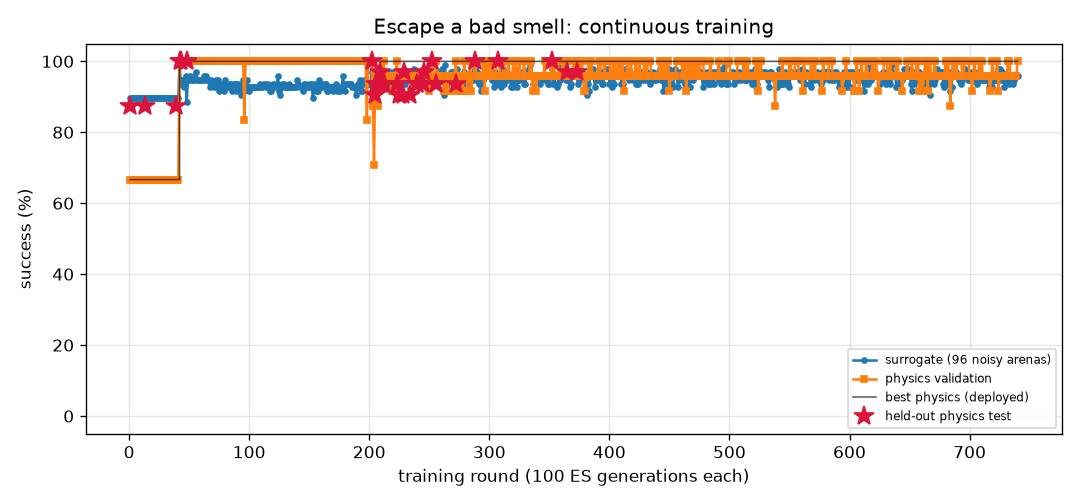
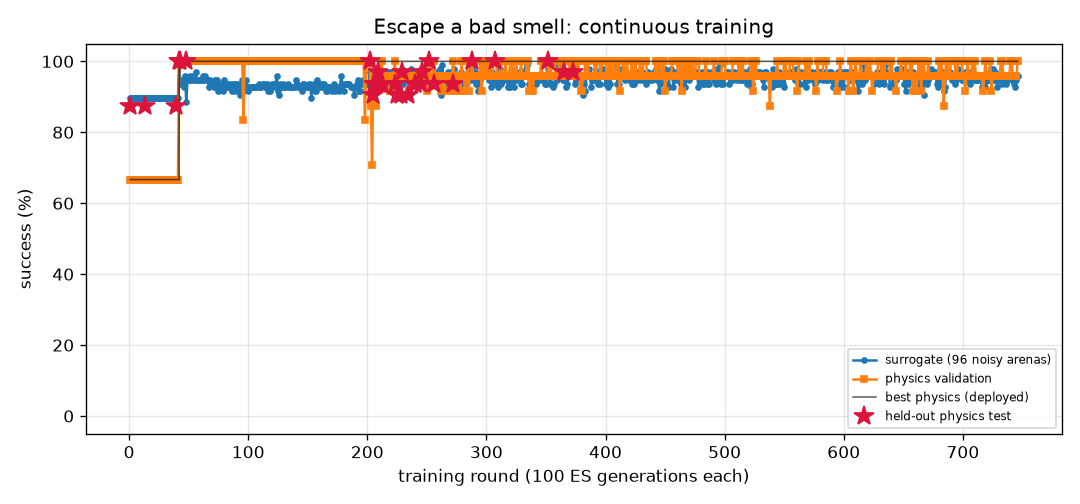
FlyLab: continuous training progress
- walk_forward: optimal, physics val 100% of 24, round 264
- turn: optimal, physics val 100% of 24, round 816
- goto: optimal, physics val 100% of 24, round 218
- odor_seek: optimal, physics val 100% of 24, round 185
- odor_avoid: optimal, physics val 100% of 24, round 746
- light_seek: optimal, physics val 100% of 24, round 412
- light_avoid: optimal, physics val 100% of 24, round 474

diff --git a/projects/09_flylab/training/turn/REPORT.md b/projects/09_flylab/training/turn/REPORT.md
@@ -1,14 +1,14 @@
 # Turn in place (`turn`) — training report
 
-*Auto-generated by `train_brains.py`, last updated 2026-11-02T19:20:21.*
+*Auto-generated by `train_brains.py`, last updated 2026-11-03T00:13:18.*
 
 ![curve](curve.png)
 
 | | |
 |---|---|
-| rounds | 808 |
-| ES generations | 80800 |
-| physics runs | 19638 |
+| rounds | 816 |
+| ES generations | 81600 |
+| physics runs | 19830 |
 | status | **optimal** |
 | best brain | round 80: physics validation **100%** on 24 arenas, surrogate 100% |
 | held-out physics test | **97%** on 32 unseen arenas (95% CI 84%-99%) (errors: [1.6, 3.3, 6.3, 3.7, 1.1, 0.4, 2.4, 2.9, 0.1, 2.6, 0.5, 2.7, 1.5, 3.1, 4.5, 0.2, 0.5, 1.1, 2.0, 4.4, 2.8, 3.2, 0.3, 2.2, 0.5, 3.0, 0.3, 5.4, 0.4, 1.0, 4.7, 10.7]) |
@@ -17,14 +17,6 @@ Physics error per arena: deg from target heading (< 20 = success).
 
 | round | level | gens | sigma | surrogate | physics val | val errors | test | note |
 |---:|---:|---:|---:|---:|---:|---|---:|---|
-| 769 | 3 | 76900 | 0.024 | 100% | 75% | [6.7, 7.9, 1.4, 1.8, 1.3, 2.3, 4.2, 3.4, 3.4, 0.5, 3.9, 0.8, 3.9, 2.6, 3.8, 0.5, 0.8, 1.2, 0.8, 0.9, 2.9, 1.2, 3.5, 1.5] |  |  |
-| 770 | 3 | 77000 | 0.024 | 97% | 79% | [5.8, 3.0, 5.5, 0.4, 8.1, 1.2, 6.3, 8.2, 5.9, 0.2, 5.8, 0.1, 1.9, 0.3, 5.2, 2.1, 0.2, 1.3, 1.7, 1.5, 7.8, 0.0, 6.8, 6.0] |  |  |
-| 771 | 3 | 77100 | 0.026 | 99% | 71% | [0.6, 6.1, 2.3, 2.8, 3.4, 0.5, 5.6, 0.5, 4.7, 1.1, 5.2, 0.5, 0.4, 0.8, 6.2, 1.2, 0.9, 2.5, 1.1, 1.0, 5.4, 2.6, 5.9, 4.5] |  |  |
-| 772 | 3 | 77200 | 0.025 | 99% | 75% | [3.4, 3.6, 1.8, 1.8, 2.4, 2.9, 4.0, 7.5, 4.3, 1.1, 5.7, 0.7, 1.2, 1.8, 5.0, 0.1, 0.7, 1.6, 0.4, 0.5, 1.5, 0.9, 5.0, 4.3] |  | restart from best |
-| 773 | 3 | 77300 | 0.024 | 100% | 79% | [6.4, 8.5, 0.1, 2.9, 4.0, 2.3, 4.5, 0.9, 0.7, 0.0, 4.2, 0.6, 0.9, 2.9, 2.9, 1.5, 0.3, 0.7, 1.9, 0.5, 3.8, 0.2, 4.5, 3.9] |  |  |
-| 774 | 3 | 77400 | 0.024 | 99% | 92% | [6.4, 8.8, 4.5, 5.8, 5.1, 0.2, 3.5, 0.8, 2.1, 2.5, 2.7, 2.5, 2.9, 2.7, 1.7, 2.2, 2.3, 1.9, 1.8, 2.8, 4.5, 1.9, 0.8, 6.0] |  |  |
-| 775 | 3 | 77500 | 0.025 | 100% | 75% | [8.4, 9.6, 5.7, 0.9, 6.0, 2.5, 4.5, 3.0, 4.0, 1.1, 5.4, 2.1, 0.5, 5.5, 5.3, 0.6, 1.8, 1.9, 0.7, 1.1, 5.2, 0.6, 5.5, 0.2] |  |  |
-| 776 | 3 | 77600 | 0.024 | 99% | 54% | [7.5, 5.3, 1.3, 3.3, 6.1, 4.6, 6.2, 2.4, 5.4, 0.5, 6.8, 0.8, 1.5, 3.7, 4.1, 2.6, 1.6, 0.6, 2.5, 1.9, 5.0, 2.4, 6.6, 6.3] |  | restart from best |
 | 777 | 3 | 77700 | 0.024 | 99% | 79% | [7.2, 7.6, 0.2, 2.2, 0.8, 8.7, 4.8, 1.4, 4.7, 0.7, 4.5, 1.0, 2.3, 4.0, 3.3, 1.3, 0.8, 2.5, 0.9, 0.6, 6.3, 0.8, 3.9, 3.6] |  |  |
 | 778 | 3 | 77800 | 0.025 | 99% | 92% | [8.5, 11.9, 6.8, 4.6, 5.4, 5.3, 0.8, 5.4, 0.4, 1.8, 1.6, 5.0, 0.3, 7.2, 0.3, 3.1, 5.2, 4.4, 4.7, 4.7, 9.2, 0.5, 0.1, 3.5] |  |  |
 | 779 | 3 | 77900 | 0.025 | 99% | 83% | [4.7, 2.0, 2.4, 0.1, 3.8, 0.9, 4.1, 6.7, 7.6, 0.1, 6.1, 0.6, 0.8, 1.4, 4.6, 3.2, 0.4, 2.0, 3.6, 16.1, 3.2, 0.7, 6.7, 8.2] |  |  |
@@ -57,3 +49,11 @@ Physics error per arena: deg from target heading (< 20 = success).
 | 806 | 3 | 80600 | 0.026 | 100% | 96% | [4.5, 7.8, 1.9, 3.4, 0.8, 0.9, 4.2, 3.3, 1.9, 0.9, 2.8, 0.2, 2.7, 0.6, 2.8, 0.5, 0.5, 1.7, 0.9, 0.4, 3.0, 0.9, 6.0, 2.1] |  |  |
 | 807 | 3 | 80700 | 0.024 | 100% | 83% | [0.0, 4.2, 7.3, 1.6, 3.7, 1.3, 7.3, 9.4, 7.2, 0.8, 6.8, 1.7, 1.5, 0.7, 6.9, 3.0, 1.4, 4.3, 4.3, 3.5, 2.1, 2.3, 8.3, 9.0] |  |  |
 | 808 | 3 | 80800 | 0.024 | 99% | 75% | [8.9, 6.8, 1.3, 0.1, 11.7, 4.7, 5.2, 4.1, 5.0, 13.7, 4.8, 2.9, 0.3, 2.3, 4.1, 1.5, 2.5, 1.6, 1.5, 16.7, 8.5, 0.6, 1.8, 0.6] |  | restart from best |
+| 809 | 3 | 80900 | 0.024 | 99% | 92% | [9.0, 8.2, 11.9, 4.4, 5.8, 3.3, 3.1, 1.9, 2.7, 13.0, 2.8, 2.3, 3.0, 5.5, 2.4, 2.0, 2.4, 0.4, 1.7, 0.7, 7.6, 0.3, 2.3, 2.1] |  |  |
+| 810 | 3 | 81000 | 0.025 | 99% | 83% | [5.3, 1.3, 2.7, 1.2, 0.8, 119.0, 7.0, 7.3, 6.6, 14.9, 4.3, 1.0, 0.4, 2.2, 3.8, 6.9, 1.0, 5.0, 12.3, 9.3, 3.0, 1.9, 6.7, 5.6] |  |  |
+| 811 | 3 | 81100 | 0.025 | 99% | 96% | [5.3, 1.5, 1.4, 0.8, 0.6, 2.2, 5.4, 4.8, 6.5, 1.2, 3.6, 1.5, 1.5, 2.1, 4.6, 12.6, 1.5, 3.6, 11.9, 1.3, 4.0, 2.1, 5.3, 3.3] |  |  |
+| 812 | 3 | 81200 | 0.025 | 98% | 71% | [5.0, 3.2, 7.7, 2.0, 5.8, 1.1, 9.5, 4.7, 8.1, 2.7, 4.9, 2.0, 5.0, 2.5, 6.1, 3.3, 0.8, 4.2, 4.3, 4.6, 6.3, 1.9, 7.3, 7.2] |  | restart from best |
+| 813 | 3 | 81300 | 0.024 | 100% | 92% | [7.8, 10.3, 10.1, 2.6, 1.8, 2.4, 2.8, 4.5, 1.3, 2.6, 0.2, 3.9, 3.6, 5.8, 1.6, 0.0, 3.7, 3.4, 3.2, 3.5, 6.4, 1.4, 1.0, 3.8] |  |  |
+| 814 | 3 | 81400 | 0.024 | 98% | 83% | [6.4, 4.8, 2.5, 1.2, 5.7, 1.7, 5.0, 1.4, 3.5, 1.2, 3.8, 1.6, 0.3, 1.3, 4.7, 0.6, 1.6, 1.5, 0.6, 0.9, 5.2, 0.7, 4.6, 0.7] |  |  |
+| 815 | 3 | 81500 | 0.025 | 100% | 96% | [7.5, 8.3, 11.8, 5.0, 5.3, 2.5, 5.5, 2.3, 4.6, 0.0, 2.9, 2.4, 2.9, 4.3, 2.3, 0.6, 2.1, 0.0, 0.3, 1.7, 6.2, 1.7, 3.6, 5.2] |  |  |
+| 816 | 3 | 81600 | 0.024 | 99% | 79% | [1.8, 4.4, 7.0, 0.3, 0.6, 0.6, 8.8, 10.0, 9.4, 2.3, 8.0, 3.2, 1.6, 3.5, 7.1, 3.1, 3.1, 5.7, 3.0, 4.4, 3.7, 3.7, 9.6, 6.7] |  | restart from best |

diff --git a/projects/09_flylab/training/odor_avoid/REPORT.md b/projects/09_flylab/training/odor_avoid/REPORT.md
@@ -1,14 +1,14 @@
 # Escape a bad smell (`odor_avoid`) — training report
 
-*Auto-generated by `train_brains.py`, last updated 2026-11-02T20:26:58.*
+*Auto-generated by `train_brains.py`, last updated 2026-11-03T00:12:48.*
 
 ![curve](curve.png)
 
 | | |
 |---|---|
-| rounds | 740 |
-| ES generations | 74000 |
-| physics runs | 15066 |
+| rounds | 746 |
+| ES generations | 74600 |
+| physics runs | 15210 |
 | status | **optimal** |
 | best brain | round 373: physics validation **100%** on 24 arenas, surrogate 97% |
 | held-out physics test | **97%** on 32 unseen arenas (95% CI 84%-99%) (errors: [62.0, 57.4, 62.6, 61.9, 59.0, 61.6, 56.5, 60.7, 31.7, 60.9, 63.1, 57.1, 61.1, 62.1, 61.5, 60.2, 62.2, 55.2, 62.1, 54.2, 61.3, 62.0, 58.0, 61.9, 59.8, 56.5, 56.3, 56.4, 56.3, 57.7, 61.9, 32.4]) |
@@ -17,12 +17,6 @@ Physics error per arena: mm gained away from source (> 6 without first approachi
 
 | round | level | gens | sigma | surrogate | physics val | val errors | test | note |
 |---:|---:|---:|---:|---:|---:|---|---:|---|
-| 701 | 3 | 70100 | 0.027 | 96% | 96% | [59.0, 51.7, 55.4, 54.9, 59.6, 59.0, 59.7, 56.4, 59.8, 57.1, 56.5, 59.8, 49.5, 53.8, 29.7, 59.8, 60.2, 59.1, 50.5, 52.2, 60.1, 56.9, 55.1, 57.4] |  | restart from best |
-| 702 | 3 | 70200 | 0.026 | 97% | 92% | [62.9, 61.3, 57.3, 58.5, 61.5, 58.5, 61.5, 2.9, 60.7, 44.8, 57.8, 61.3, 51.6, 55.5, 41.1, 60.0, 61.4, 37.1, 51.8, 60.0, 61.5, 30.6, 55.7, 33.0] |  |  |
-| 703 | 3 | 70300 | 0.026 | 95% | 96% | [62.2, 61.0, 57.2, 61.1, 60.9, 61.0, 61.3, 42.3, 61.1, 41.1, 19.0, 60.7, 50.0, 55.8, 40.3, 59.6, 60.8, 61.0, 51.5, 57.8, 61.4, 42.0, 61.0, 47.8] |  |  |
-| 704 | 3 | 70400 | 0.027 | 96% | 100% | [60.7, 57.7, 56.0, 58.1, 61.5, 60.5, 58.8, 40.2, 58.8, 60.3, 55.2, 61.1, 49.8, 55.5, 47.3, 61.3, 60.9, 60.6, 53.0, 53.1, 60.7, 59.5, 57.5, 58.5] |  |  |
-| 705 | 3 | 70500 | 0.026 | 96% | 96% | [61.5, 59.8, 55.8, 55.6, 62.1, 61.5, 59.3, 53.5, 59.9, 60.4, 58.9, 61.5, 50.5, 55.9, 40.5, 62.6, 62.2, 62.1, 50.8, 58.1, 61.8, 61.9, 59.1, 61.9] |  | restart from best |
-| 706 | 3 | 70600 | 0.026 | 94% | 96% | [63.2, 60.8, 56.3, 59.4, 61.1, 61.2, 61.2, 48.4, 61.3, 60.0, 48.8, 62.0, 53.5, 55.8, 40.4, 61.8, 61.8, 62.0, 54.2, 59.1, 62.3, 61.1, 56.3, 62.4] |  |  |
 | 707 | 3 | 70700 | 0.028 | 97% | 96% | [61.6, 59.2, 56.0, 61.1, 61.5, 61.8, 61.6, 61.4, 61.9, 58.5, 59.8, 62.0, 52.5, 55.4, 40.0, 62.1, 61.9, 62.0, 53.3, 56.9, 61.7, 61.5, 59.5, 61.9] |  |  |
 | 708 | 3 | 70800 | 0.026 | 95% | 100% | [62.4, 59.8, 51.1, 61.1, 61.3, 61.4, 60.4, 62.5, 62.0, 58.7, 44.1, 62.0, 47.5, 55.3, 35.4, 61.8, 62.1, 59.5, 53.2, 57.4, 61.7, 62.2, 61.4, 62.9] |  |  |
 | 709 | 3 | 70900 | 0.027 | 95% | 96% | [62.2, 59.0, 55.9, 60.9, 61.9, 62.4, 60.3, 62.1, 62.0, 59.6, 59.6, 62.0, 53.4, 55.5, 39.8, 62.5, 62.2, 62.4, 55.0, 56.7, 62.2, 62.3, 59.7, 62.8] |  | restart from best |
@@ -57,3 +51,9 @@ Physics error per arena: mm gained away from source (> 6 without first approachi
 | 738 | 3 | 73800 | 0.026 | 96% | 96% | [63.5, 61.2, 56.2, 61.3, 61.3, 62.1, 61.8, 20.1, 61.0, 58.7, 61.6, 62.1, 52.5, 55.5, 41.4, 61.5, 62.4, 61.8, 55.1, 57.6, 61.9, 60.0, 56.0, 61.7] |  |  |
 | 739 | 3 | 73900 | 0.026 | 96% | 96% | [61.7, 56.8, 56.5, 58.7, 61.4, 59.5, 60.2, 2.2, 61.0, 21.3, 60.3, 60.9, 51.2, 57.3, 37.2, 60.8, 61.4, 59.1, 51.3, 56.8, 61.0, 27.9, 58.4, 17.1] |  |  |
 | 740 | 3 | 74000 | 0.026 | 96% | 100% | [63.2, 61.3, 58.3, 56.1, 61.9, 62.3, 60.4, 62.8, 60.0, 62.3, 61.7, 60.6, 52.8, 57.5, 40.4, 62.7, 61.2, 62.6, 54.7, 59.0, 61.1, 62.8, 54.9, 62.6] |  |  |
+| 741 | 3 | 74100 | 0.026 | 95% | 100% | [61.2, 60.7, 56.8, 60.0, 60.6, 61.9, 60.1, 61.7, 61.7, 61.0, 58.3, 61.3, 48.3, 56.9, 34.7, 61.8, 61.5, 61.9, 52.0, 59.5, 61.2, 62.2, 59.9, 62.5] |  | restart from best |
+| 742 | 3 | 74200 | 0.026 | 95% | 96% | [61.7, 59.8, 55.7, 59.6, 61.7, 38.6, 61.9, 40.8, 61.9, 39.3, 47.9, 61.7, 51.0, 55.2, 35.3, 59.7, 61.7, 48.5, 50.9, 56.5, 61.2, 41.4, 59.7, 31.4] |  |  |
+| 743 | 3 | 74300 | 0.027 | 94% | 96% | [60.3, 53.6, 56.2, 57.6, 58.3, 60.7, 61.0, 57.8, 60.8, 58.5, 53.2, 61.0, 48.1, 55.7, 3.0, 61.4, 61.0, 60.7, 49.4, 54.1, 60.7, 60.3, 57.6, 60.1] |  |  |
+| 744 | 3 | 74400 | 0.028 | 93% | 96% | [60.3, 52.9, 56.2, 56.8, 61.3, 60.7, 58.8, 25.5, 59.3, 53.8, 57.3, 61.5, 54.5, 56.5, 50.5, 61.4, 61.2, 61.3, 54.5, 53.1, 61.3, 60.8, 57.2, 59.4] |  |  |
+| 745 | 3 | 74500 | 0.028 | 95% | 96% | [61.4, 58.9, 56.4, 59.8, 61.1, 45.3, 61.7, 59.5, 61.4, 50.2, 33.5, 61.9, 50.7, 53.4, 42.3, 61.1, 60.9, 60.0, 49.8, 55.4, 61.2, 48.2, 56.7, 59.8] |  | restart from best |
+| 746 | 3 | 74600 | 0.026 | 96% | 100% | [61.9, 60.4, 56.0, 61.0, 62.2, 62.0, 61.7, 39.3, 62.1, 60.5, 60.0, 61.8, 51.7, 55.9, 19.9, 60.4, 61.6, 61.1, 55.2, 60.1, 61.7, 49.6, 59.8, 44.7] |  |  |

diff --git a/projects/09_flylab/training/TRAINING.md b/projects/09_flylab/training/TRAINING.md
@@ -1,15 +1,15 @@
 # FlyLab brains — continuous training log
 
-*Auto-generated by `train_brains.py`, last updated 2026-11-02T23:10:33.*
+*Auto-generated by `train_brains.py`, last updated 2026-11-03T00:13:18.*
 
 Every skill has its own brain and its own training process: surrogate ES rounds, physics validation in MuJoCo, keep-the-best selection, and a held-out physics test that is never used for selection. See each skill's report for its full round-by-round history. Mastery is progressive: passing a level (100% physics validation, >=95% surrogate) doubles the validation and test arena sets; a brain is **optimal** once it holds up at level 3 (>=95% of 24 validation arenas) AND scores >=90% on the 32 held-out test arenas. Test columns show 95% Wilson confidence intervals.
 
 | skill | rounds | ES generations | physics runs | surrogate | physics val | **physics test** | status |
 |---|---:|---:|---:|---:|---:|---:|---|
 | [Walk forward](walk_forward/REPORT.md) | 264 | 26400 | 6350 | 100% | 100% of 24 | 100% of 32 (CI 89-100%) | **optimal** |
-| [Turn in place](turn/REPORT.md) | 808 | 80800 | 19638 | 100% | 100% of 24 | 97% of 32 (CI 84-99%) | **optimal** |
+| [Turn in place](turn/REPORT.md) | 816 | 81600 | 19830 | 100% | 100% of 24 | 97% of 32 (CI 84-99%) | **optimal** |
 | [Go to a location](goto/REPORT.md) | 218 | 21800 | 5182 | 100% | 100% of 24 | 100% of 32 (CI 89-100%) | **optimal** |
 | [Find food by smell](odor_seek/REPORT.md) | 185 | 18500 | 3870 | 100% | 100% of 24 | 100% of 32 (CI 89-100%) | **optimal** |
-| [Escape a bad smell](odor_avoid/REPORT.md) | 740 | 74000 | 15066 | 97% | 100% of 24 | 97% of 32 (CI 84-99%) | **optimal** |
+| [Escape a bad smell](odor_avoid/REPORT.md) | 746 | 74600 | 15210 | 97% | 100% of 24 | 97% of 32 (CI 84-99%) | **optimal** |
 | [Walk toward light](light_seek/REPORT.md) | 412 | 41200 | 6768 | 100% | 100% of 24 | 100% of 32 (CI 89-100%) | **optimal** |
 | [Hide from light](light_avoid/REPORT.md) | 474 | 47400 | 11648 | 100% | 100% of 24 | 100% of 32 (CI 89-100%) | **optimal** |
